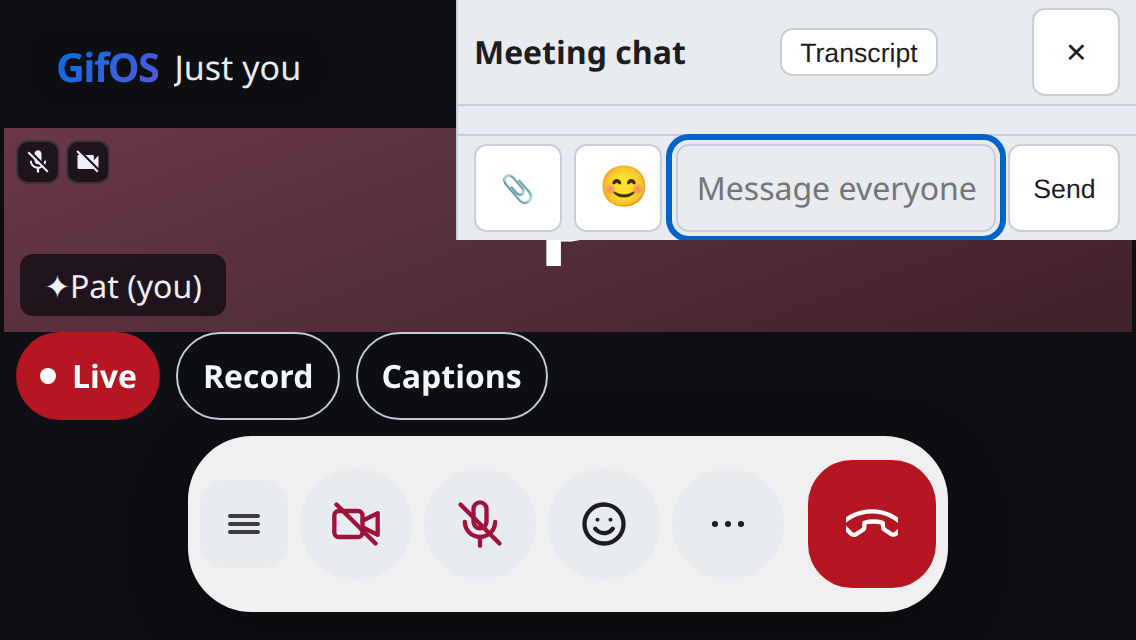
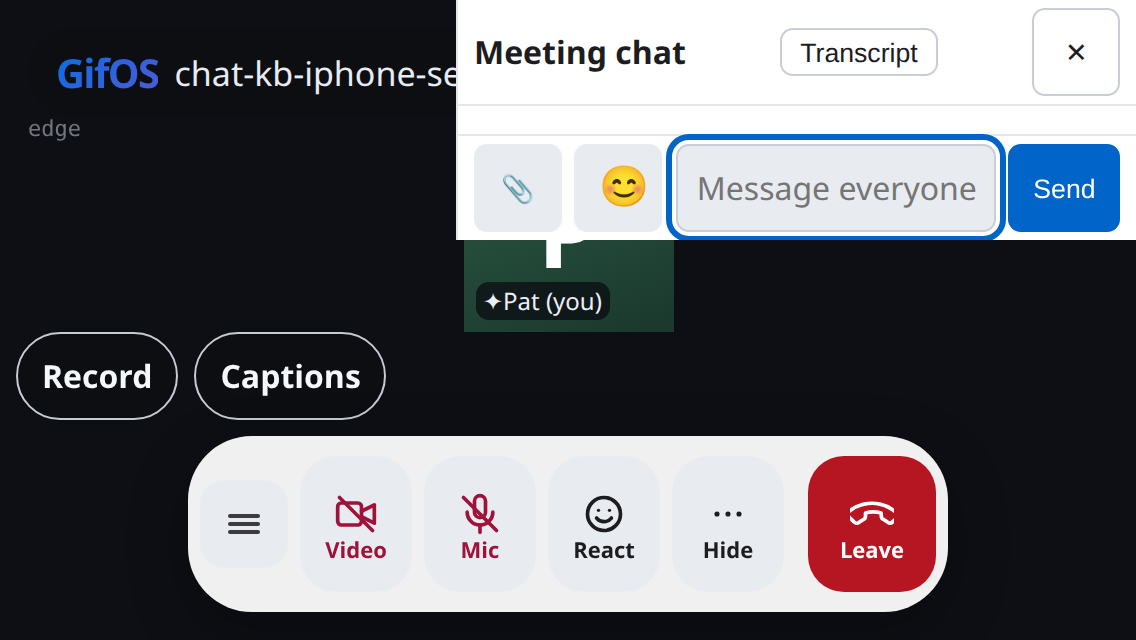
Meet: a sideways keyboard leaves the chat field in view.
On a sideways SE the keyboard leaves about 120px. Find in chat took that band and pushed the field and Send under the keys. While the keyboard is up on a short screen, Find steps aside unless you are typing in it.

Proof: test/mobile/chat-keyboard.js failed at the repro commit (field bottom 171, keyboard line 120), passes here. All 18 chat tests, safe-area.js and landscape-first.js pass. With Find focused and the keyboard up, Find stays at 61-105px (after-chat-find-kb-land.png).

diff --git a/run.html b/run.html
@@ -2097,6 +2097,10 @@ requestAnimationFrame(chk);setTimeout(show,1500);})();</script>
     #cfiles { display: none; }
     #chathead, #chatform { padding: 4px 8px; }
     #chatlog { padding: 4px; }
+    /* Find in chat took 60 of the 120px a sideways keyboard leaves, and
+       pushed the field and Send under the keys. It steps aside while the
+       keyboard is up for something else, and stays while you search. */
+    html.kb-up #chatfind:not(:focus-within) { display: none; }
   }
   #chat-in { min-height: 44px; }
   #chatclose, #cattach, #cemoji, #chatform button[type=submit] { min-width: 44px; min-height: 44px; }
@@ -23158,6 +23162,7 @@ requestAnimationFrame(chk);setTimeout(show,1500);})();</script>
           const vv = window.visualViewport;
           const kb = vv ? Math.max(0, Math.round(window.innerHeight - vv.height - vv.offsetTop)) : 0;
           document.documentElement.style.setProperty('--kb', kb + 'px');
+          document.documentElement.classList.toggle('kb-up', kb > 0);
         } catch (e) {}
       };
       window.__gifosKb = { sync: syncKb };

diff --git a/QUIRKS.md b/QUIRKS.md
@@ -581,9 +581,19 @@ Repro: `test/mobile/chat-react.js`. It failed (`no way to react to a line`), the
 
 Before: `qa/mobile/shots/before-chat-react-iphone-se.png`. After: `qa/mobile/shots/after-chat-react-iphone-se.png`.
 
+### 67. A sideways keyboard covered the chat field again
+
+On an SE turned sideways, the keyboard leaves about 120px. Find in chat (64px with its border) came after the keyboard fix, and it took that band with the header. The message field and Send sat under the keys (field bottom 171, keyboard line 120).
+
+While the keyboard is up on a short screen, Find in chat steps aside unless you are typing in it. The field and Send sit above the keys. Tap Find with the keyboard up and it stays, at 61 to 105px.
+
+Repro: `test/mobile/chat-keyboard.js`. It failed (`field cannot be tapped; keyboard covers field (bottom 171, line 120); send is not above the keyboard`), then passed. All 18 chat tests pass.
+
+Before: `qa/mobile/shots/before-chat-keyboard-land.png`. After: `qa/mobile/shots/after-chat-keyboard-land.png`, and `qa/mobile/shots/after-chat-find-kb-land.png` (Find in use with the keyboard up).
+
 ## Open
 
-The build name is a faint line under the header. A green round "A" in Nathan's shot did not appear in the Playwright capture. Fit and the name chip stay while the dock is tucked. A closed chat says who mentioned you, Reply keeps that line on the answer, and Delete takes back your own line. An address in a line is a link. The room name and full screen are 44px taps. A sideways phone shows the whole name. A chat line takes a reaction. `test/mobile/chat-keyboard.js` fails on an SE turned sideways: the keyboard covers the chat field and Send. It failed before reactions too.
+The build name is a faint line under the header. A green round "A" in Nathan's shot did not appear in the Playwright capture. Fit and the name chip stay while the dock is tucked. A closed chat says who mentioned you, Reply keeps that line on the answer, and Delete takes back your own line. An address in a line is a link. The room name and full screen are 44px taps. A sideways phone shows the whole name. A chat line takes a reaction. The keyboard leaves the chat field and Send in view on a sideways SE.
 
 ## Personas (what was actually tried)
 

diff --git a/BENCHMARK.md b/BENCHMARK.md
@@ -114,3 +114,4 @@ Family and friends. Warm, few steps, a texted link.
 55. An address in chat was plain text. `test/mobile/chat-link.js` failed (`the address is not a link`), then passed. https://example.com/park is a link, the trailing period stays out of the address, and javascript: is not a link. Mine is marked on the blue line too. Audience scores stay 9 / 9 / 9. You still cannot take back your own line. Nobody leads yet.
 56. Your own line could not be taken back. `test/mobile/chat-delete.js` failed (`no way to take back your line`), then passed. Delete on your line is 44px and stays off Send. The line leaves. Ruth's line has no Delete. Personal chat 9→10. Audience scores stay 9 / 9 / 9. A reaction still has no place on a line. Nobody leads yet.
 57. A chat line had no reaction. `test/mobile/chat-react.js` failed (`no way to react to a line`), then passed. React on their line and the five picks are 44px and stay off Send. The count shows on the line, yours is outlined, and a second tap takes it off. A frame counts only from the person it names. Audience scores stay 9 / 9 / 9. `chat-keyboard.js` fails on a sideways SE, where the keyboard covers the field. Nobody leads yet.
+58. A sideways keyboard covered the chat field. `test/mobile/chat-keyboard.js` failed on an SE (`keyboard covers field (bottom 171, line 120)`), then passed. Find in chat steps aside while the keyboard is up, unless you are searching. Audience scores stay 9 / 9 / 9. Nobody leads yet.
